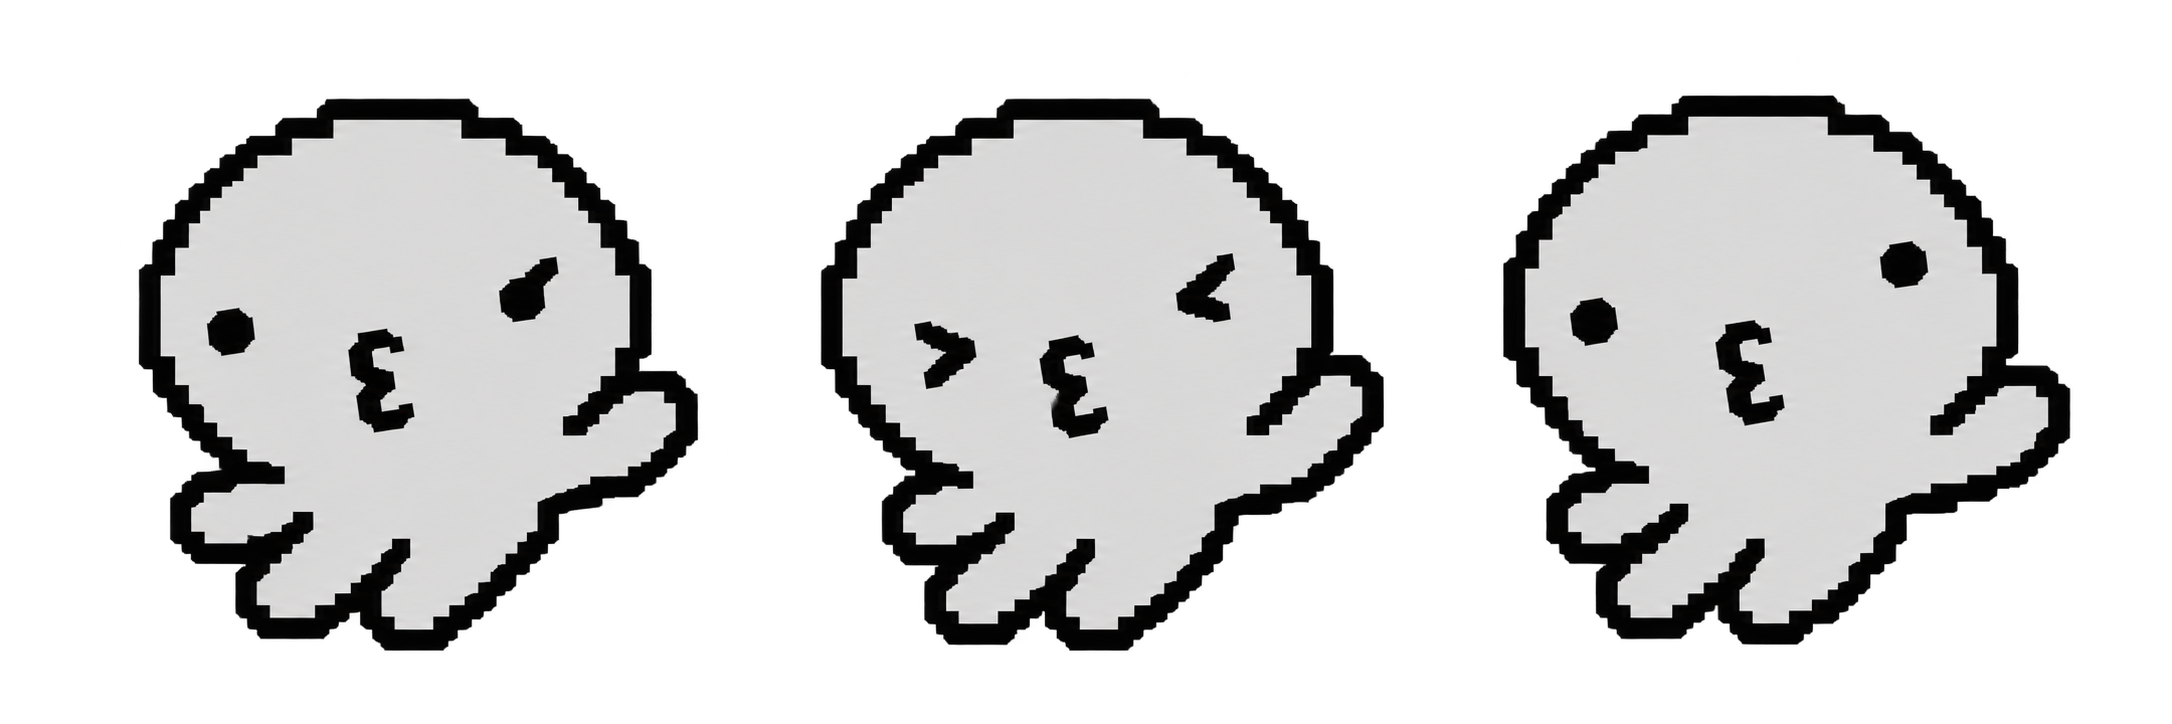
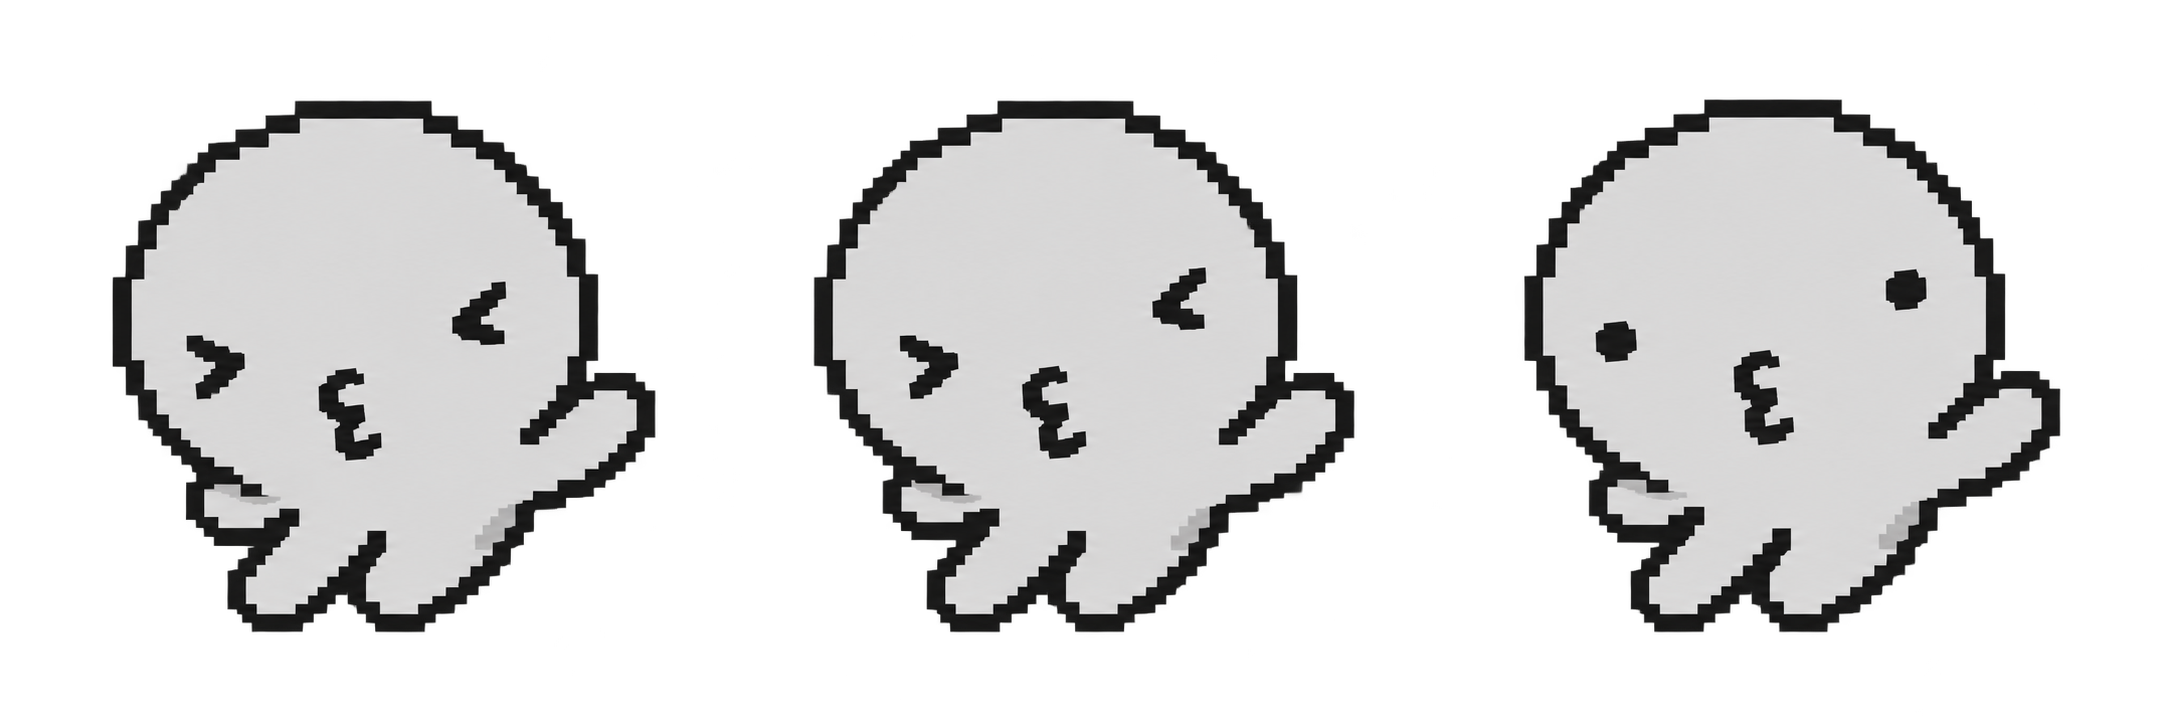
캐릭터: 스탑 사선 각도를 원본 도안에 맞춤

Changed region(s): [[0.0308, 0.1215, 0.3393, 0.9116], [0.6786, 0.1215, 0.9563, 0.9116], [0.3702, 0.1215, 0.6478, 0.9116]]

diff --git a/docs/구조/characters/NOTES.md b/docs/구조/characters/NOTES.md
@@ -17,3 +17,5 @@
 - 2026-10-16: 사용자 승인으로 윤곽 정리128px 이동본을 final/walk-128.png와walk-preview.gif로 확정. 8프레임/1.12초 유지,PPU96·128셀정보 반영. final의이전64본은교체했으며상위폴더원본은보존. 게임연결미적용.
 
 - 2026-10-16: 스탑 에셋을 도안의 두발 동시앞쏠림 자세로 제작. 왼발더앞·오른팔높음·왼눈낮고오른눈높은얼굴축을 반영한128셀3프레임,50/80/70ms=0.2초단발이다. stop-polished-128.png·이동연결GIF·원본·프롬프트포함JSON에리뷰용보관. 발앵커정렬로상체쏠림유지,알파여백·19GIF프레임검사. 기존게임미적용.
+
+- 2026-10-16: 스탑 각도를 사용자가 새로 첨부한 크롭 도안 기준으로 수정. 눈만 기울인 자세 대신 머리·몸 연결의 사선과 높이 든 오른팔·작게 숨은 왼팔을 함께 반영. 두발 동시 앞쏠림,128셀3프레임/0.2초 유지. source/stop-angle-reference.png 보관,PNG알파여백·19GIF프레임검사. 기존스탑리뷰파일갱신,게임미적용.

diff --git a/docs/구조/characters/README.md b/docs/구조/characters/README.md
@@ -14,6 +14,8 @@
 
 ## 관련 파일
 
+- `Source/문어_유한맵/../../docs/검증/octopus-character-assets/source/stop-angle-reference.png`
+
 - `Source/문어_유한맵/../../docs/검증/octopus-character-assets/stop-polished.json`
 
 - `Source/문어_유한맵/../../docs/검증/octopus-character-assets/stop-polished-preview.gif`
